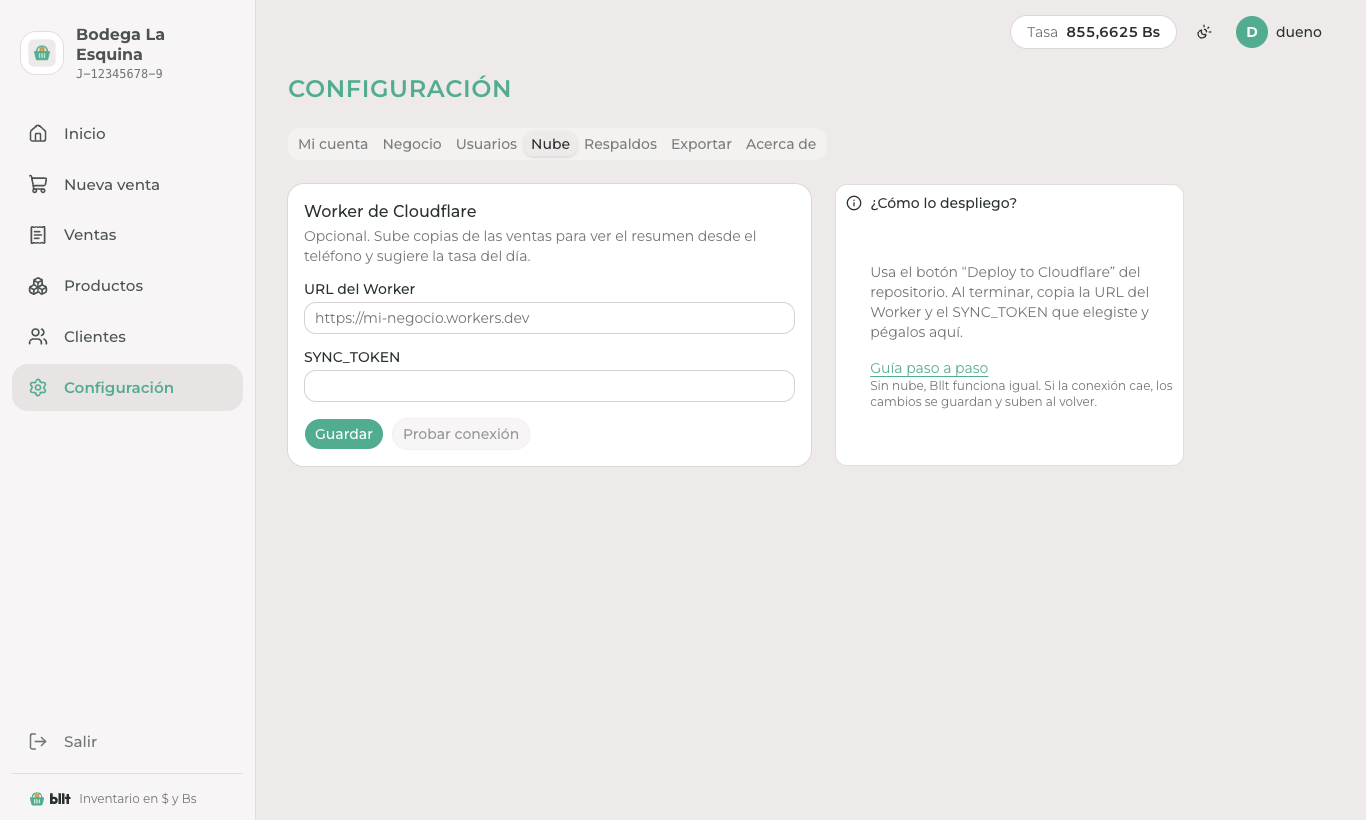
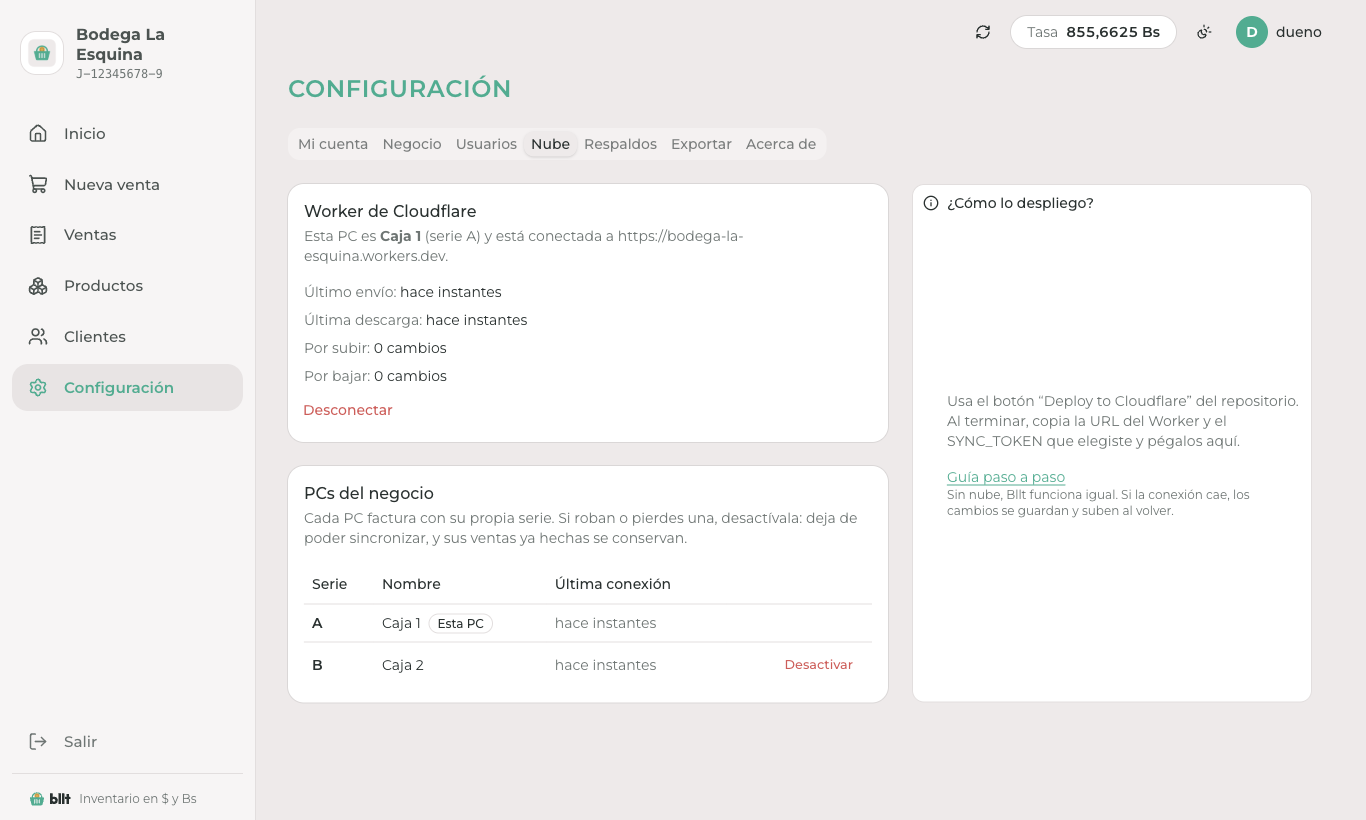
Documentación y capturas de la sincronización entre PCs
El README, la landing y la guía de varias PCs hablan de usar el mismo negocio en
más de una computadora. Hay capturas nuevas de la segunda PC al unirse, de la
tarjeta de sincronización del inicio y de la lista de PCs en Configuración → Nube.
El script de capturas conecta dos PCs a un Worker local para tomarlas.

diff --git a/apps/site/src/routes/+page.svelte b/apps/site/src/routes/+page.svelte
@@ -39,8 +39,8 @@
     },
     {
       icon: SmartphoneIcon,
-      title: 'Resumen en el teléfono',
-      text: 'Opcional y gratis con Cloudflare: ganancias y tasa desde cualquier lado.'
+      title: 'Varias PCs y teléfono',
+      text: 'Opcional y gratis con Cloudflare: las mismas ventas e inventario en varias PCs, y el resumen en el teléfono.'
     }
   ]
 
@@ -210,9 +210,10 @@
       class="bg-primary text-primary-foreground flex flex-wrap items-center justify-between gap-6 rounded-3xl p-10"
     >
       <div>
-        <h2 class="text-2xl font-bold">¿Quieres ver el día desde el teléfono?</h2>
+        <h2 class="text-2xl font-bold">¿Más de una PC, o ver el día desde el teléfono?</h2>
         <p class="text-primary-foreground/80 mt-1">
-          Despliega tu propia nube gratis en Cloudflare con un botón.
+          Despliega tu propia nube gratis en Cloudflare con un botón: cada PC sigue funcionando sin
+          internet y se pone al día sola.
         </p>
       </div>
       <Button href="/docs/nube" variant="secondary" class="h-11 rounded-full px-6"

diff --git a/README.md b/README.md
@@ -33,7 +33,7 @@
   <img src="apps/site/static/capturas/08-dashboard.png" alt="Dashboard de Bllt" width="820" />
 </p>
 
-**Bllt** (se lee “billete”) es una app de escritorio open source para que un negocio pequeño en Venezuela controle inventario, ventas y clientes en USD, registrando la tasa BCV de cada venta. Funciona 100% sin internet; la nube es opcional y solo sirve para ver el resumen y sugerir la tasa desde el teléfono.
+**Bllt** (se lee “billete”) es una app de escritorio open source para que un negocio pequeño en Venezuela controle inventario, ventas y clientes en USD, registrando la tasa BCV de cada venta. Funciona 100% sin internet; la nube es opcional y sirve para usar **varias PCs con los mismos datos**, ver el resumen y sugerir la tasa desde el teléfono.
 
 ## Capturas
 
@@ -42,6 +42,8 @@
 | <img src="apps/site/static/capturas/03-rate.png" alt="Confirmar la tasa del día" /> | <img src="apps/site/static/capturas/05-products.png" alt="Inventario de productos" /> |
 | **Nueva venta** | **Factura** |
 | <img src="apps/site/static/capturas/06-new-sale.png" alt="Registrar una venta" /> | <img src="apps/site/static/capturas/07-invoice.png" alt="Factura de una venta" /> |
+| **Varias PCs** | **Estado de la nube** |
+| <img src="apps/site/static/capturas/14-cloud.png" alt="Configuración, pestaña Nube, con las PCs del negocio" /> | <img src="apps/site/static/capturas/18-sync-status.png" alt="Tarjeta de sincronización en el inicio" /> |
 
 ## Documentación
 
@@ -54,13 +56,14 @@ Guías completas en [bllt.juanl.dev](https://bllt.juanl.dev):
 - [Usuarios y roles](https://bllt.juanl.dev/docs/guias/usuarios)
 - [Respaldos](https://bllt.juanl.dev/docs/guias/respaldos)
 - [Exportar ventas](https://bllt.juanl.dev/docs/guias/exportar)
-- [Nube en Cloudflare (opcional)](https://bllt.juanl.dev/docs/nube), [instalar en el teléfono](https://bllt.juanl.dev/docs/guias/telefono) y [si pierdes el teléfono](https://bllt.juanl.dev/docs/guias/telefono-perdido)
+- [Nube en Cloudflare (opcional)](https://bllt.juanl.dev/docs/nube) y [usar varias PCs](https://bllt.juanl.dev/docs/guias/varias-pcs)
+- [Instalar en el teléfono](https://bllt.juanl.dev/docs/guias/telefono) y [si pierdes el teléfono](https://bllt.juanl.dev/docs/guias/telefono-perdido)
 
 ## Nube opcional
 
 [![Deploy to Cloudflare](https://deploy.workers.cloudflare.com/button)](https://deploy.workers.cloudflare.com/?url=https://github.com/juanlvs21/bllt/tree/cloud)
 
-El botón despliega la rama `cloud`, que CI publica desde el último tag estable `vX.Y.Z`, igual que el instalador del escritorio, para que los negocios nunca corran código sin release (`scripts/cloud-branch.mjs`, workflow `cloud-branch.yml`; un push a `main` solo comprueba que compila): un workspace recortado con `apps/worker`, `apps/web`, `packages/shared` y `packages/ui`, y `wrangler.jsonc` en la raíz, porque el botón copia un solo directorio al repo nuevo. Incluye la API (Hono + D1), el cron de la tasa y la PWA del teléfono. Pide dos secretos, `SYNC_TOKEN` y `JWT_SECRET`. El nombre del negocio en la PWA es el del escritorio: se sincroniza como una entidad más del outbox, la PWA lo pide a `/api/business` y el Worker lo pone en el manifest. Guía: [bllt.juanl.dev/docs/nube](https://bllt.juanl.dev/docs/nube).
+El botón despliega la rama `cloud`, que CI publica desde el último tag estable `vX.Y.Z`, igual que el instalador del escritorio, para que los negocios nunca corran código sin release (`scripts/cloud-branch.mjs`, workflow `cloud-branch.yml`; un push a `main` solo comprueba que compila): un workspace recortado con `apps/worker`, `apps/web`, `packages/shared` y `packages/ui`, y `wrangler.jsonc` en la raíz, porque el botón copia un solo directorio al repo nuevo. Incluye la API (Hono + D1), el cron de la tasa y la PWA del teléfono. Pide dos secretos, `SYNC_TOKEN` y `JWT_SECRET`. Con ella, varias PCs del mismo negocio comparten productos, clientes, usuarios, ventas e inventario: cada una sigue funcionando sin internet, sube sus cambios al Worker y baja los de las demás. Una segunda PC se une desde su primera pantalla y carga todo sin repetir la configuración; cada PC tiene su token y su serie de factura (`A-000123`, `B-000045`). Guía: [Usar varias PCs](https://bllt.juanl.dev/docs/guias/varias-pcs). El nombre del negocio en la PWA es el del escritorio: se sincroniza como una entidad más del outbox, la PWA lo pide a `/api/business` y el Worker lo pone en el manifest. Guía: [bllt.juanl.dev/docs/nube](https://bllt.juanl.dev/docs/nube).
 
 ## Monorepo
 
@@ -93,8 +96,9 @@ pnpm install
 | `pnpm typecheck` | Tipos en todos los paquetes |
 | `pnpm --filter @bllt/shared test` | Pruebas de dinero, hora, ganancias y contraseñas |
 | `pnpm --filter @bllt/desktop test:e2e` | Prueba de humo con Playwright sobre la app construida (primer arranque → tasa → productos → venta → dashboard → respaldo). Con `BLLT_E2E_WORKER=http://localhost:8787` también prueba el sync |
+| `node apps/desktop/e2e/multi.mjs` | Dos PCs contra un Worker local con base vacía (`BLLT_E2E_WORKER` y `BLLT_E2E_TOKEN`; construye antes con `pnpm --filter @bllt/desktop build`): unirse, vender en las dos, anular y desactivar una PC |
 | `pnpm --filter @bllt/desktop seed:demo` | Llena la base local con datos de demo (40 productos, 38 clientes, tasas y ~90 días de ventas). Cierra Bllt antes; `--reset` reemplaza los datos, `--help` muestra las opciones. Guarda una copia de la base antes de escribir y no toca el outbox |
-| `pnpm --filter @bllt/desktop capturas` | Regenera las capturas del README y la landing (`apps/site/static/capturas`) sobre una base temporal con los datos de demo |
+| `pnpm --filter @bllt/desktop capturas` | Regenera las capturas del README y la landing (`apps/site/static/capturas`) sobre una base temporal con los datos de demo. Necesita un Worker local con base vacía (`BLLT_E2E_WORKER` y `BLLT_E2E_TOKEN`) para las capturas de la nube |
 | `pnpm --filter @bllt/desktop build:win` | Instalador NSIS |
 
 ## Decisiones clave
@@ -103,7 +107,7 @@ Resumen de lo esencial. El detalle (sync, tasa, autenticación, modelo de datos 
 
 - **Dinero:** USD en centavos (`INTEGER`), tasa como entero escalado a 4 decimales. Ganancia de una línea = `qty × (price − cost)`; en Bs se multiplica por la tasa de su propia venta. Se calcula solo en `@bllt/shared` (`summarizeProfit`), así el escritorio y el teléfono muestran el mismo número.
 - **Hora:** todo “día de negocio” se calcula en UTC−4 desde UTC con `businessDate()`, nunca con la zona de la PC.
-- **Sync:** outbox en la misma transacción que cada escritura; sube en lotes con `Authorization: Bearer <SYNC_TOKEN>`; el Worker hace `upsert` por UUID. D1 limita las consultas por invocación en el plan gratis, así que el Worker acepta el prefijo del lote que cabe en `SYNC_STATEMENT_BUDGET` y el escritorio reenvía el resto.
+- **Sync:** outbox en la misma transacción que cada escritura; sube en lotes con el token propio de cada PC (el `SYNC_TOKEN` solo sirve para registrarla) y baja los cambios de las demás PCs. Gana el último cambio en productos, clientes, usuarios y tasas; el inventario viaja como movimientos de stock y las ventas anuladas nunca vuelven a completadas. D1 limita las consultas por invocación en el plan gratis, así que el Worker acepta el prefijo del lote que cabe en `SYNC_STATEMENT_BUDGET` y el escritorio reenvía el resto.
 - **Unicidad:** usuario, código de producto y número de venta son únicos solo en el escritorio (`apps/desktop/drizzle/0001_desktop_unique.sql`). D1 nunca rechaza una fila del escritorio (por ejemplo, números de venta reutilizados tras restaurar un respaldo).
 - **Tasa:** la API solo sugiere; la tasa del día es la que confirma un usuario. Sin tasa confirmada no hay ventas.
 - **Módulos:** cada app se organiza en `core/ libs/ utils/ modules/<dominio>/{repository, service, ipc|routes}`. Solo los repositories tocan Drizzle.

diff --git a/apps/site/src/content/docs/guias/varias-pcs.md b/apps/site/src/content/docs/guias/varias-pcs.md
@@ -16,6 +16,8 @@ Cada PC sigue funcionando **sin internet**. Cuando hay conexión, sube lo que hi
 4. **Espera a que el inicio diga “Todo al día”** y no queden cambios por subir. Mientras tanto no hay prisa: esa PC funciona igual que siempre.
 5. **Instala Bllt en la segunda PC.** En la primera pantalla pega la URL y el `SYNC_TOKEN`, ponle un nombre (“Caja 2”) y pulsa **Conectar**. Descarga todo con una barra de avance y te lleva al inicio de sesión. Entra con tus usuarios de siempre.
 
+![Primera pantalla de Bllt en una segunda PC, con la URL del Worker, el SYNC_TOKEN y el nombre de la PC](/capturas/17-join-pc.png)
+
 > Si la segunda PC intenta conectarse mientras la primera sigue subiendo, Bllt te pide esperar: así no baja datos a medias.
 
 ## Qué pasa cuando las dos trabajan a la vez
@@ -35,7 +37,11 @@ Cada PC sigue funcionando **sin internet**. Cuando hay conexión, sube lo que hi
 
 En el **Inicio**, la tarjeta de la nube dice cuándo subió y bajó esta PC por última vez, cuántos cambios faltan en cada sentido y hasta cuándo llegaron los datos de las otras PCs (“Caja 2: datos hasta hace 2 h”).
 
+![Tarjeta de la nube en el inicio: todo al día, cuándo subió y bajó, y hasta cuándo llegaron los datos de Caja 2](/capturas/18-sync-status.png)
+
 En **Configuración → Nube** (solo administradores) ves la lista de PCs con su serie y última conexión, y los avisos de casos que Bllt resolvió solo.
+
+![Configuración, pestaña Nube, con Caja 1 y Caja 2 conectadas](/capturas/14-cloud.png)
 
 ## Si pierdes o te roban una PC
 

diff --git a/ARCHITECTURE.md b/ARCHITECTURE.md
@@ -242,6 +242,7 @@ La auth está hecha a mano, sin librerías externas. Hay dos credenciales distin
 
 - `pnpm --filter @bllt/shared test`: pruebas unitarias con Vitest de dinero, hora, ganancias, contraseñas y la regla de "gana el último".
 - `pnpm --filter @bllt/worker test`: pruebas del Worker con Vitest sobre un D1 de mentira hecho con `node:sqlite` y las migraciones reales (dispositivos, "gana el último", ventas y stock, pull).
+- `pnpm --filter @bllt/desktop capturas` conecta dos PCs a un Worker local (mismas variables) para fotografiar la nube y la segunda PC.
 - `pnpm --filter @bllt/desktop test:data`: migra una base de la versión anterior y aplica cambios de otra PC con el código real, bajo Electron-como-Node (por el ABI de `better-sqlite3`).
 - `pnpm --filter @bllt/desktop test:e2e`: prueba de humo con Playwright (`_electron`) sobre la app construida. Recorre primer arranque, tasa, productos, venta, dashboard y respaldo. Con `BLLT_E2E_WORKER` y `BLLT_E2E_TOKEN` prueba también la conexión a un Worker local. `e2e/multi.mjs` levanta dos PCs contra un Worker local con la base vacía: una conecta, la otra se une, venden las dos y se comprueban stock, series, anulaciones y la desactivación de una PC.
 - `ci.yml`: typecheck de todos los paquetes, pruebas de `shared` y builds de `web` y `site` en cada PR y push a `main`.

diff --git a/AGENTS.md b/AGENTS.md
@@ -77,7 +77,7 @@ pnpm format
 
 1. `pnpm typecheck` sin errores.
 2. `pnpm --filter @bllt/shared test` si tocaste `packages/shared`.
-3. `pnpm --filter @bllt/desktop test:e2e` si tocaste flujos del escritorio (venta, tasa, usuarios, respaldos, sync).
+3. `pnpm --filter @bllt/desktop test:e2e` si tocaste flujos del escritorio (venta, tasa, usuarios, respaldos, sync). Para el sync entre PCs, `e2e/multi.mjs` contra un Worker local (ver ARCHITECTURE.md).
 4. Si cambió algo que ve el usuario, actualiza la guía correspondiente en `apps/site/src/content/docs/`. Si cambió la arquitectura, actualiza ARCHITECTURE.md.
 5. Informa qué comprobaste y qué no pudiste probar.
 
